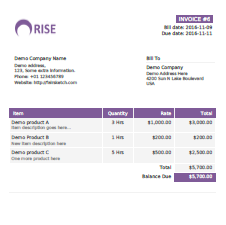
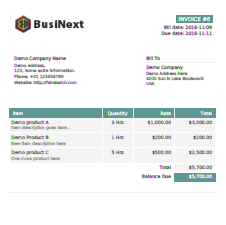
Customized the BusiNext default content such as text and images.

diff --git a/install/view/index.php b/install/view/index.php
@@ -7,7 +7,7 @@
         <meta name="description" content="">
         <meta name="author" content="fairsketch">
         <link rel="icon" href="../assets/images/favicon.png" />
-        <title>RISE - Ultimate Project Manager Installation</title>
+        <title>BusiNext - Multi-Business Management</title>
         <link rel='stylesheet' type='text/css' href='../assets/bootstrap/css/bootstrap.min.css' />
         <link rel='stylesheet' type='text/css' href='../assets/js/font-awesome/css/font-awesome.min.css' />
 
@@ -23,7 +23,7 @@
 
             <div class="panel panel-install">
                 <div class="panel-heading text-center">                    
-                    <h2> RISE - Ultimate Project Manager Installation</h2>
+                    <h2>BusiNext - Multi-Business Management</h2>
                 </div>
                 <div class="panel-body no-padding">
                     <div class="tab-container clearfix">
